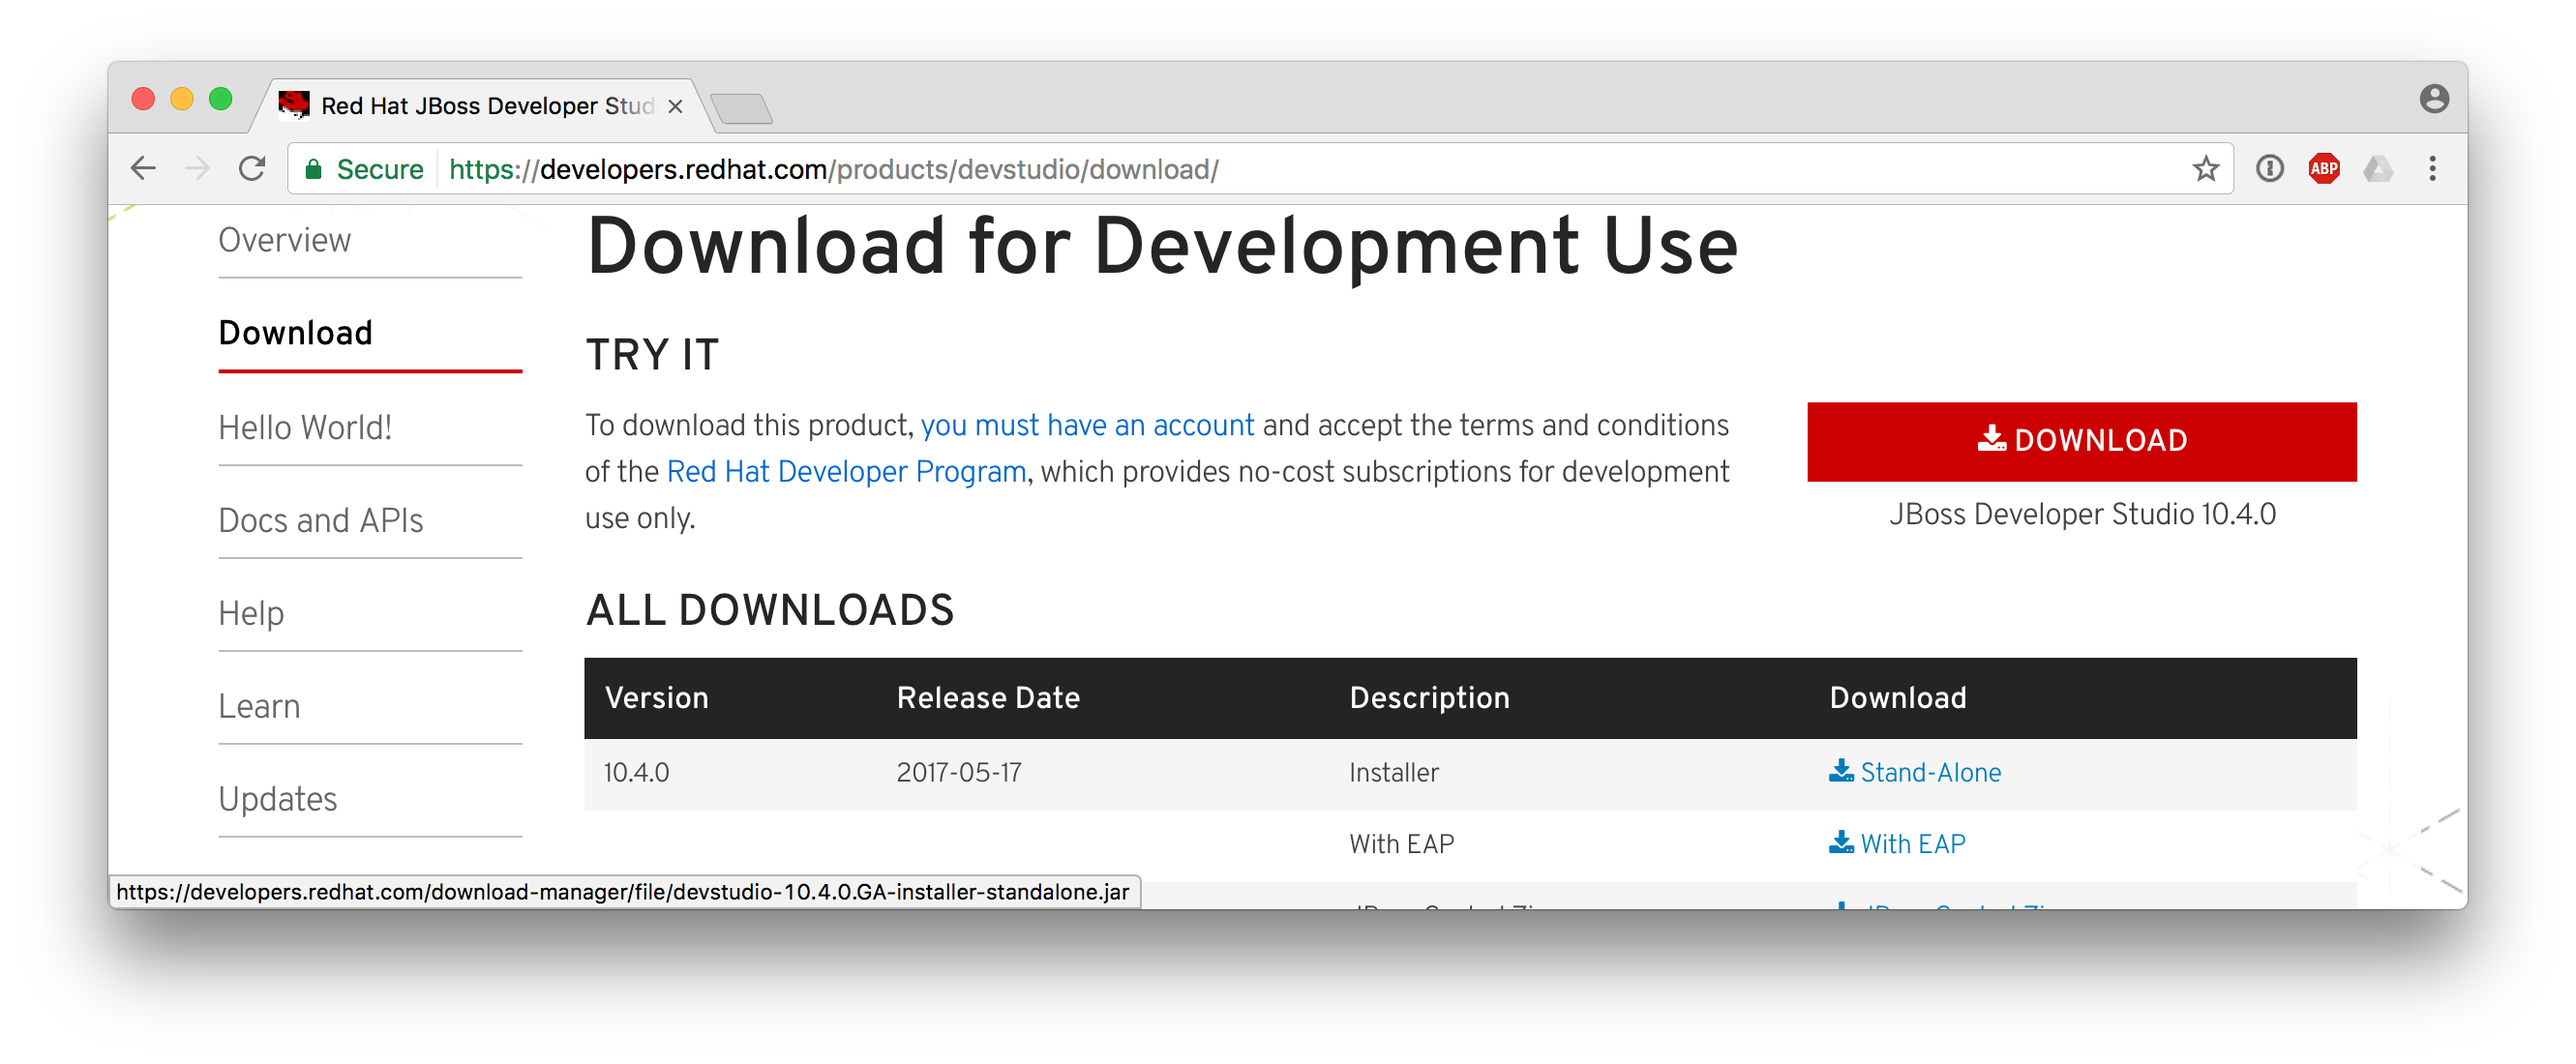
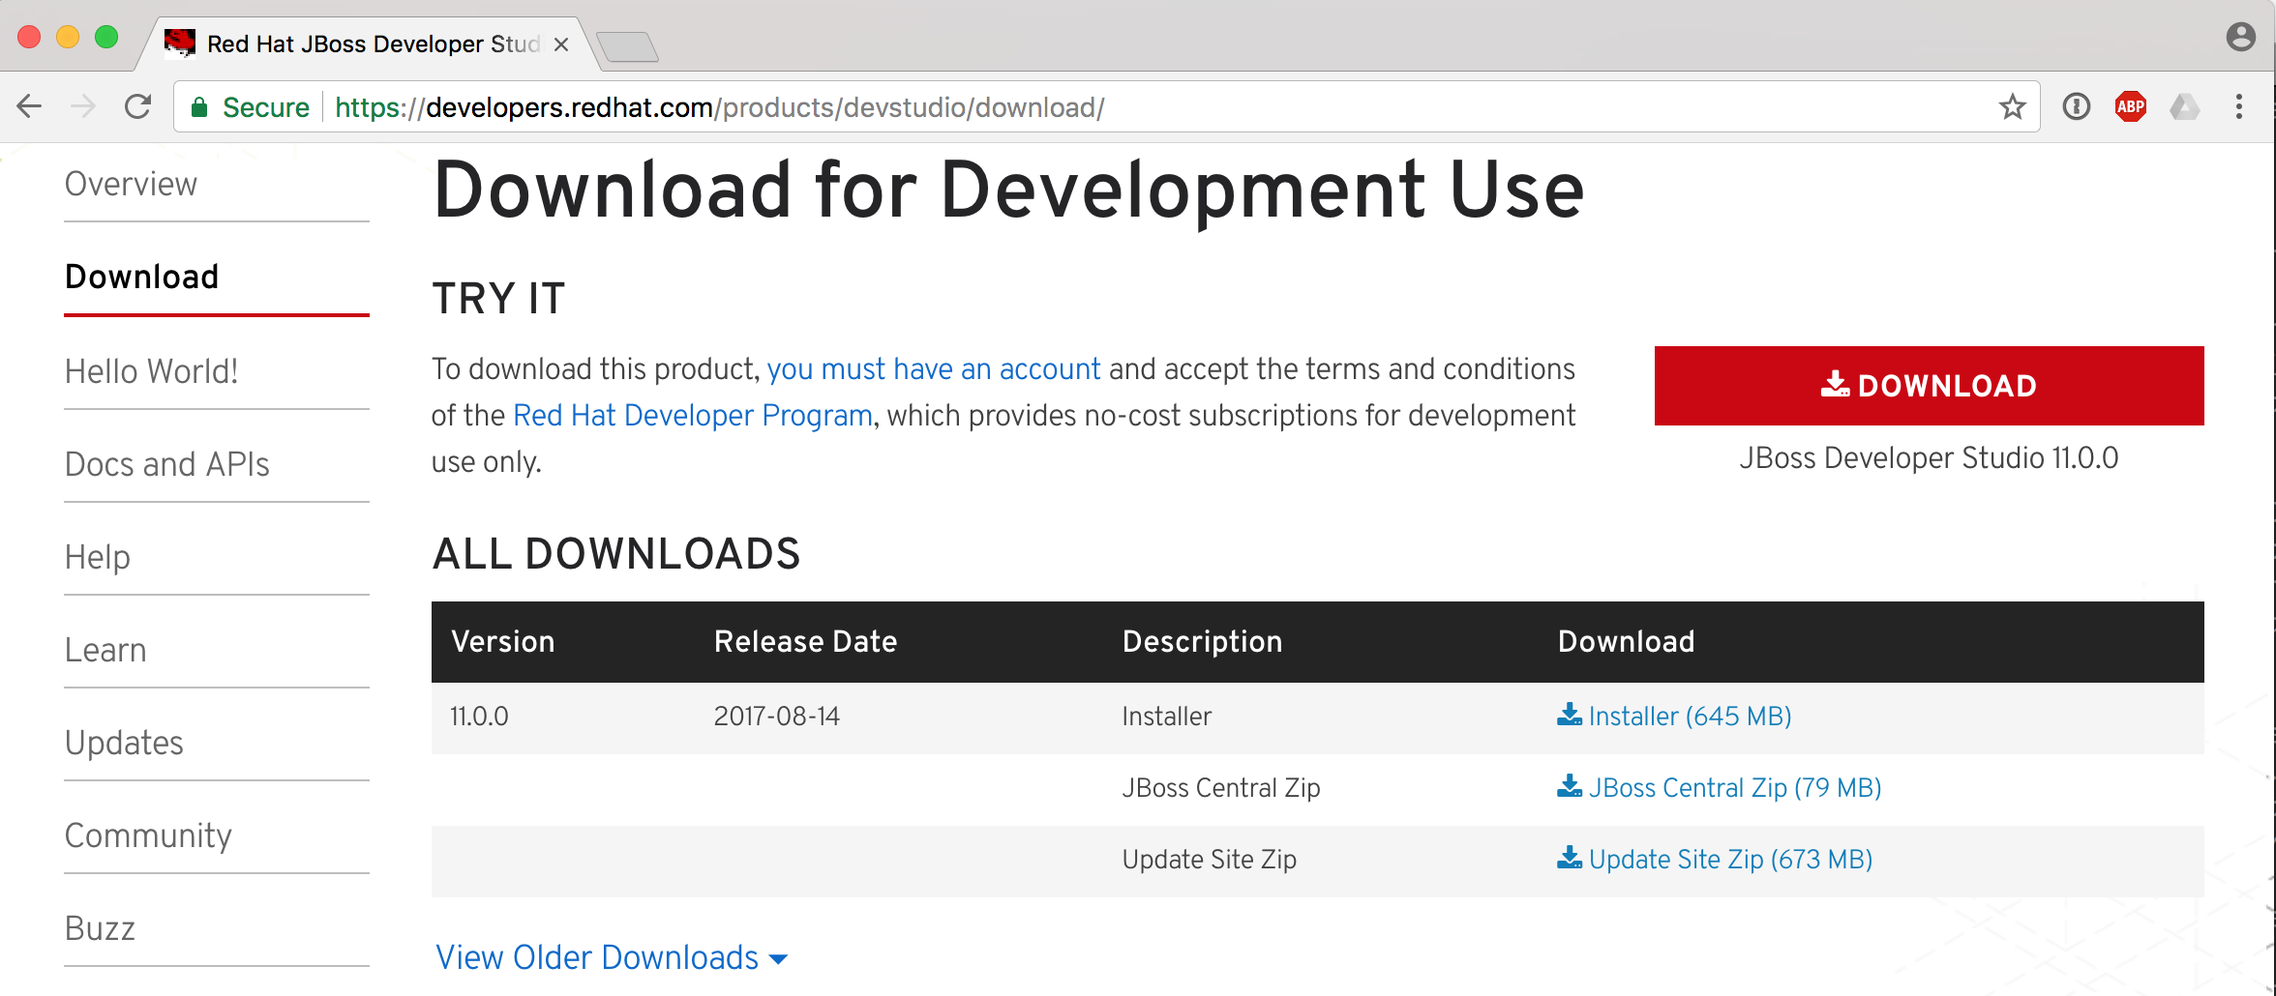
update to fedora 26

diff --git a/README.md b/README.md
@@ -155,7 +155,7 @@ The last thing to do is expose a route for the guacamole application.
     oc logout
 
 ## Configure Guacamole Users
-Browse the the guacamole application.  On the CDK, the URL is
+Browse to the guacamole application.  On the CDK, the URL is
 [holy-guacamole.192.168.99.100.nip.io/guacamole](holy-guacamole.192.168.99.100.nip.io/guacamole).
 Make sure that the URL is appropriate for your environment.  The
 login page for guacamole will appear.  Use the default username and
@@ -197,10 +197,10 @@ image, the JBDS installer file is downloaded at build time and then
 deleted after use.
 
 Get the appropriate URL for the JBoss Developer Studio installer.
-This has been tested against version 10.4.0.GA of the installer.
+This has been tested against version 11.0.0.GA of the installer.
 To get the URL, browse to [https://developers.redhat.com/products/devstudio/download/](https://developers.redhat.com/products/devstudio/download/).
 
-Click the `Stand-Alone` download link for version 10.4.0.GA, as shown.
+Click the `Installer` download link for version 11.0.0.GA, as shown.
 
 ![Developers JBDS Download](images/developer-download.png)
 
@@ -222,7 +222,7 @@ Build the image and create the imagestream.  Make sure to paste the
         --name=jbds --strategy=docker
     oc cancel-build jbds-1
     oc start-build jbds \
-        -e JBDS_JAR=devstudio-10.4.0.GA-installer-standalone.jar \
+        -e JBDS_JAR=devstudio-11.0.0.GA-installer-standalone.jar \
         -e INSTALLER_URL=<direct-link-URL>
 
 This will take some time to build the container image.  It's possible
@@ -235,7 +235,7 @@ as the file:
 
 Next, use a URL appropriate for your VM host.  In my case, the
 `direct-link-URL` for the `oc start-build ...` command would be
-[http://192.168.99.1:8000/devstudio-10.4.0.GA-installer-standalone.jar](http://192.168.99.1:8000/devstudio-10.4.0.GA-installer-standalone.jar).
+[http://192.168.99.1:8000/devstudio-11.0.0.GA-installer-standalone.jar](http://192.168.99.1:8000/devstudio-11.0.0.GA-installer-standalone.jar).
 Log out once the build completes.
 
     oc logout
